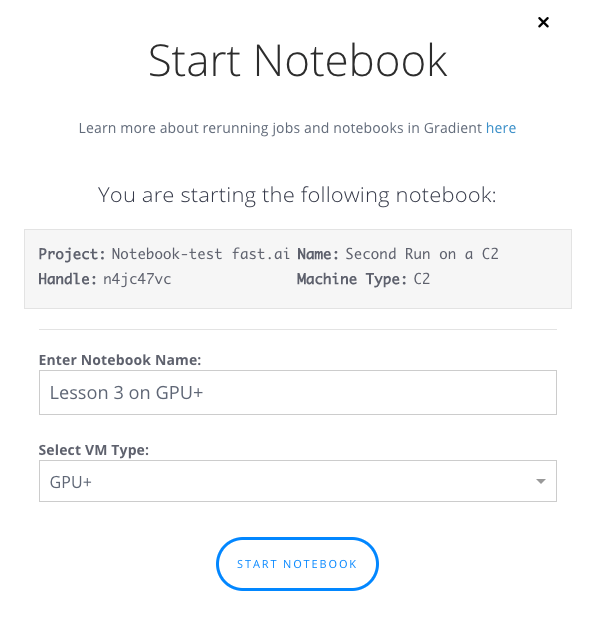
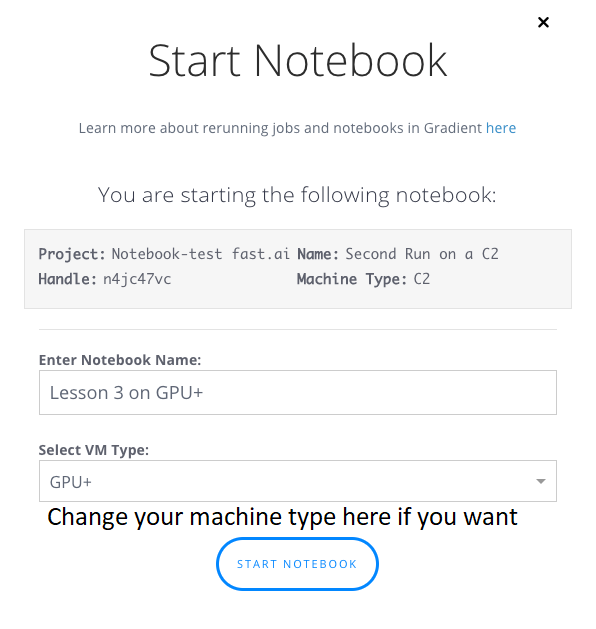
Gradient, update

Changed region(s): [[0.0604, 0.7854, 0.8758, 0.8458]]

diff --git a/docs/update/gradient.md b/docs/update/gradient.md
@@ -7,24 +7,56 @@ sidebar: home_sidebar
 To return to your notebook, the basic steps will be:
 
 1. Start your instance
-1. Update packages and course repo
-1. Open your notebook
+1. Update the course repo
+1. Update the fastai library
 1. When done, shut down your instance
 
 ## Step by step guide
 
-1. In your [console notebooks](https://www.paperspace.com/console/notebooks) choose the notebook you want to run and click on the button 'Start' under action.
+### Start your instance
+
+In your [console notebooks](https://www.paperspace.com/console/notebooks) choose the notebook you want to run and click on the button 'Start' under action.
+
+![](/images/gradient/start.png)
 
 You can choose a different Virtual Machine type on which you'd like to run your Notebook. This can be extremely useful when you want to start on a lower-end machine type, test everything is okay, then move to a more powerful GPU. Also, sometimes the GPU type that you started the notebook on will be unavailable, in which case you can easily fire it up on a different GPU.
 
 ![](/images/gradient/restartNotebook.png)
 
-1. Run thing...
+Click on 'Start notebook' when you're ready and wait a few seconds for it to be ready.
 
-    ```bash
-    conda update fastai
-    ```
-1. When you're done, close the notebook tab, and **remember to click stop!** If you don't, you'll keep getting charged until you click the *stop* button.
+![](/images/gradient/ready.png)
+
+Click on the open button when it's ready and you'll be back in your jupyter notebook page.
+
+### Update the course repo
+ To update the course repo, launch a new terminal from the jupyter notebook menu.
+
+![](/images/gradient/terminal.png)
+
+This will open a new window, in which you should run those two instructions:
+
+``` bash
+cd course-v3
+git pull
+``` 
+
+![](/images/gradient/update.png)
+
+This should give you the latest of the course notebooks. If you modified some of the notebooks in course-v3/nbs directly, GitHub will probably throw you an error. You should type `git stash` to remove your local changes. Remember you should always work on a copy of the lesson notebooks.
+
+### Update the fastai library
+To update the fastai library, open the terminal like before and type
+``` bash
+pip install fastai --upgrade 
+```
+
+### Stop your instance
+Once you're finished, go back to your [console notebook page](https://www.paperspace.com/console/notebooks) and find your running notebook. Under Action, click stop, this will end the billing session.
+
+![](/images/gradient/stopNotebook.png)
+
+ **NOTE: you *will* be charged for the time that your notebook is running. You must stop the notebook to stop incurring charges**
 
     <img src="images/sagemaker/23.png" class="screenshot">
 
